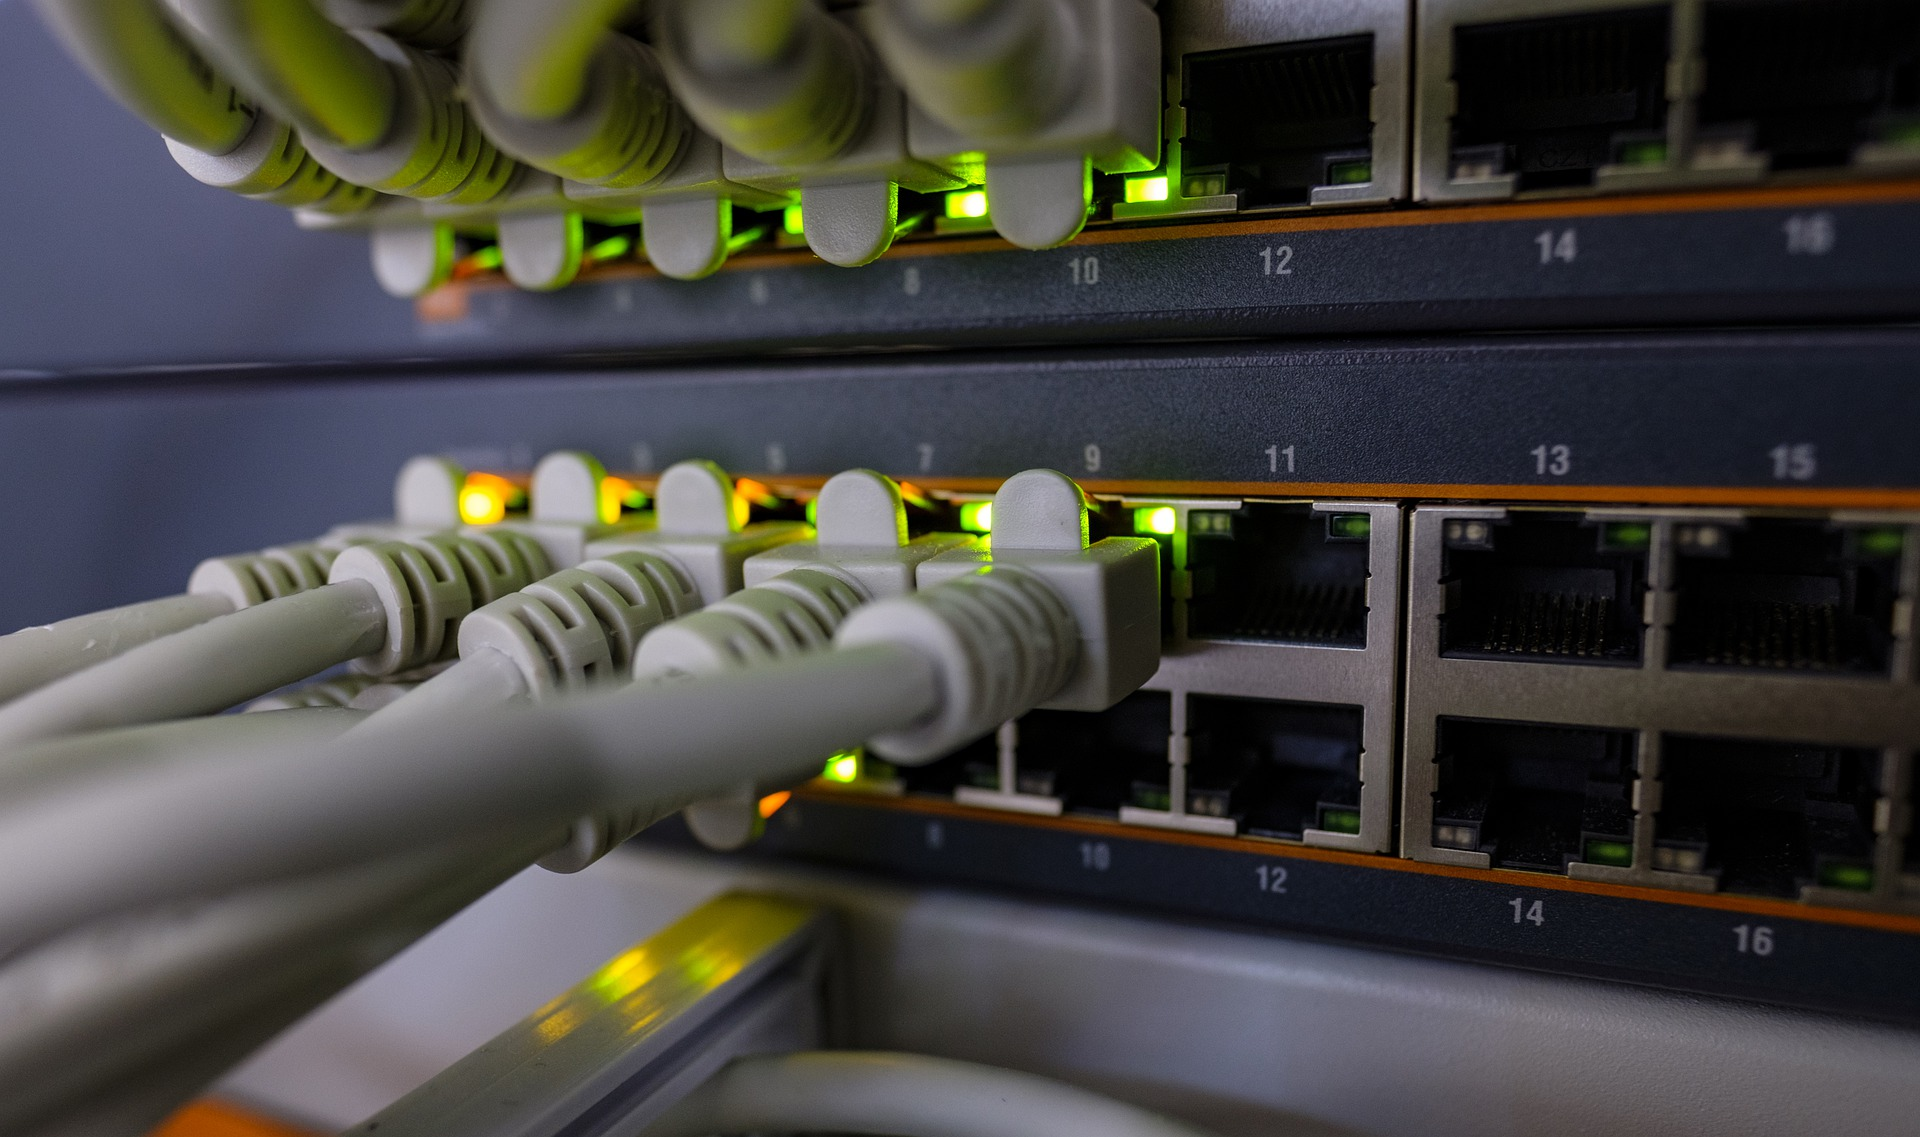
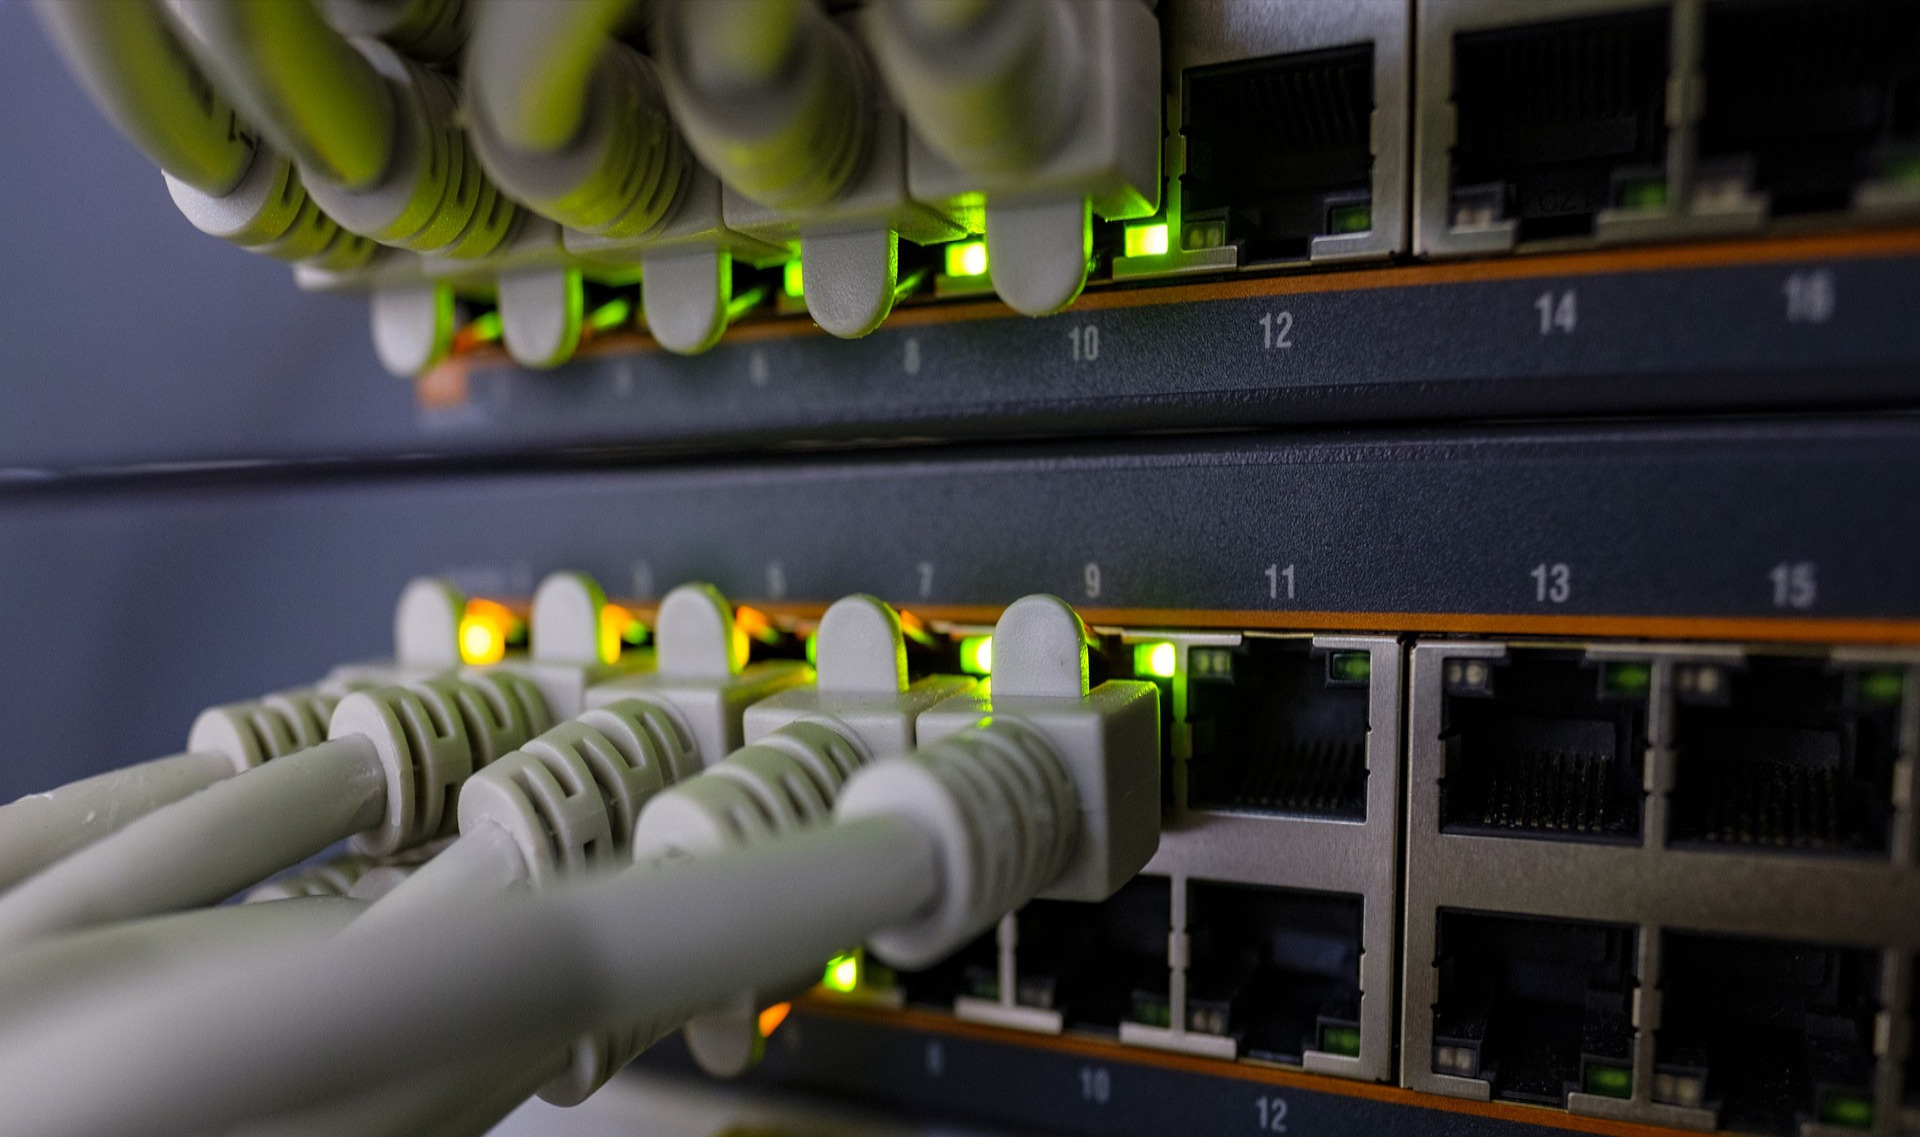
desarrollo de images

diff --git a/src/app/views/home/home.component.html b/src/app/views/home/home.component.html
@@ -2,37 +2,35 @@
   <div class="texto-info">
 
     <div class="banner_content text-center">
-      <h1 class="tittle-softnet animate__animated animate__flash animate__backInLeft">DESARROLLO DE SOFTWARE</h1>
+      <h1 class="tittle-softnet animate__animated animate__flash animate__backInDown">DESARROLLO DE SOFTWARE</h1>
     </div>
     <h4 class="subtittle-softnet animate__animated animate__flash">Apps, Web, Escritorio y mas.</h4>
   </div>
 </div>
 
 <div class="col-12 image_body" *ngIf="indice == 1"
-  style="background-image: url('./assets/img/softnet/redes1.jpg'); filter: grayscale(50%);">
+  style="background-image: url('./assets/img/softnet/redes3.jpg'); filter: grayscale(50%);">
   <div class="texto-info">
 
     <div class="banner_content text-center">
-      <h1 class="tittle-softnet animate__animated animate__backInRight">INSTALACIONES Y PROYECTOS</h1>
+      <h1 class="tittle-softnet animate__animated animate__backInDown">INSTALACIONES Y PROYECTOS</h1>
     </div>
     <h4 class="subtittle-softnet animate__animated animate__flash">Cableado estructurado, video, datos y mas.</h4>
   </div>
 </div>
-<!-- <div class="row">
-  <div class="col-12">
-    <h3>Nos especializamos en soluciones para tu empresa.</h3>
-    <h3>Nos especializamos en soluciones para tu empresa.</h3>
-    <h3>Nos especializamos en soluciones para tu empresa.</h3>
-    <h3>Nos especializamos en soluciones para tu empresa.</h3>
-    <h3>Nos especializamos en soluciones para tu empresa.</h3>
-    <h3>Nos especializamos en soluciones para tu empresa.</h3>
-    <h3>Nos especializamos en soluciones para tu empresa.</h3>
-    <h3>Nos especializamos en soluciones para tu empresa.</h3>
-    <h3>Nos especializamos en soluciones para tu empresa.</h3>
-    <h3>Nos especializamos en soluciones para tu empresa.</h3>
-    <span>En Conectividad y Telecomunicación S.A de C.V nos hemos enfocado en brindar servicios y satisfacer las
-      necesidades en el mercado de las Tecnologías de Información y Telecomunicaciones, promoviendo productos y
-      servicios integrales de alta calidad e innovación tecnológica, para lograr la satisfacción total del
-      cliente.</span>
-  </div>
-</div> -->
+<div class="col-12">
+  <h3>Nos especializamos en soluciones para tu empresa.</h3>
+  <h3>Nos especializamos en soluciones para tu empresa.</h3>
+  <h3>Nos especializamos en soluciones para tu empresa.</h3>
+  <h3>Nos especializamos en soluciones para tu empresa.</h3>
+  <h3>Nos especializamos en soluciones para tu empresa.</h3>
+  <h3>Nos especializamos en soluciones para tu empresa.</h3>
+  <h3>Nos especializamos en soluciones para tu empresa.</h3>
+  <h3>Nos especializamos en soluciones para tu empresa.</h3>
+  <h3>Nos especializamos en soluciones para tu empresa.</h3>
+  <h3>Nos especializamos en soluciones para tu empresa.</h3>
+  <span>En Conectividad y Telecomunicación S.A de C.V nos hemos enfocado en brindar servicios y satisfacer las
+    necesidades en el mercado de las Tecnologías de Información y Telecomunicaciones, promoviendo productos y
+    servicios integrales de alta calidad e innovación tecnológica, para lograr la satisfacción total del
+    cliente.</span>
+</div>

diff --git a/src/app/views/home/home.component.scss b/src/app/views/home/home.component.scss
@@ -2,6 +2,8 @@
 .image_body{
     background-attachment: fixed;	
     height: 100vh;
+    max-height: 100vh;
+    max-width: 100%;
     background-position: center center;
     background-repeat: no-repeat;
     background-size: cover;
